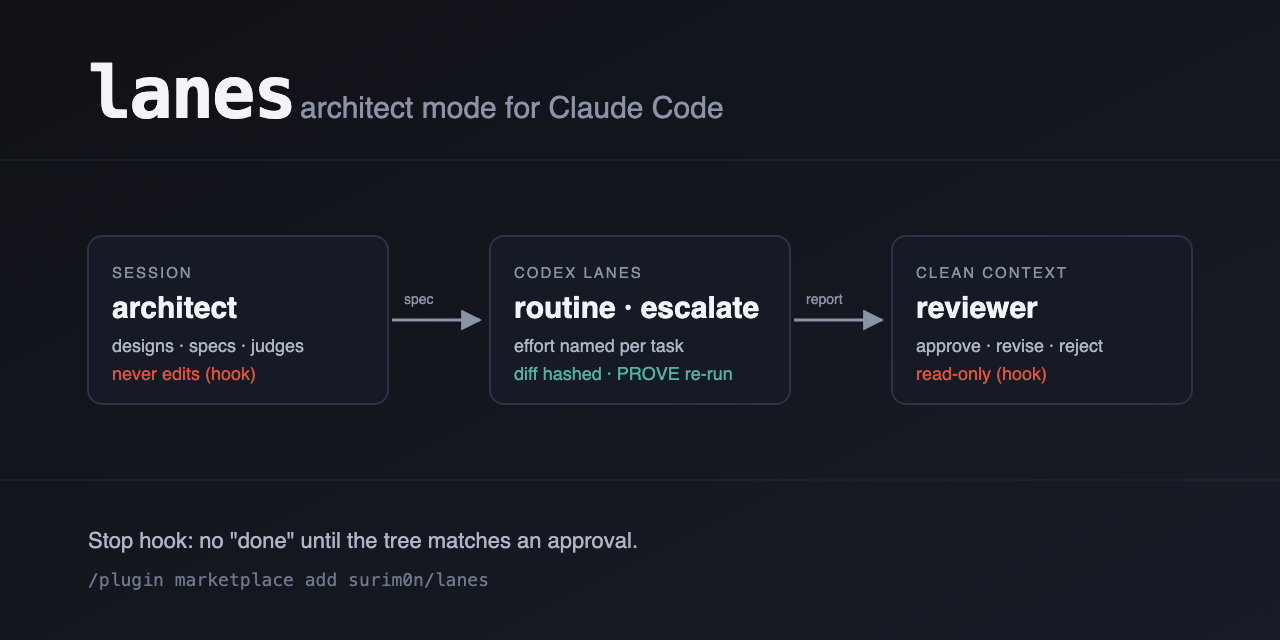
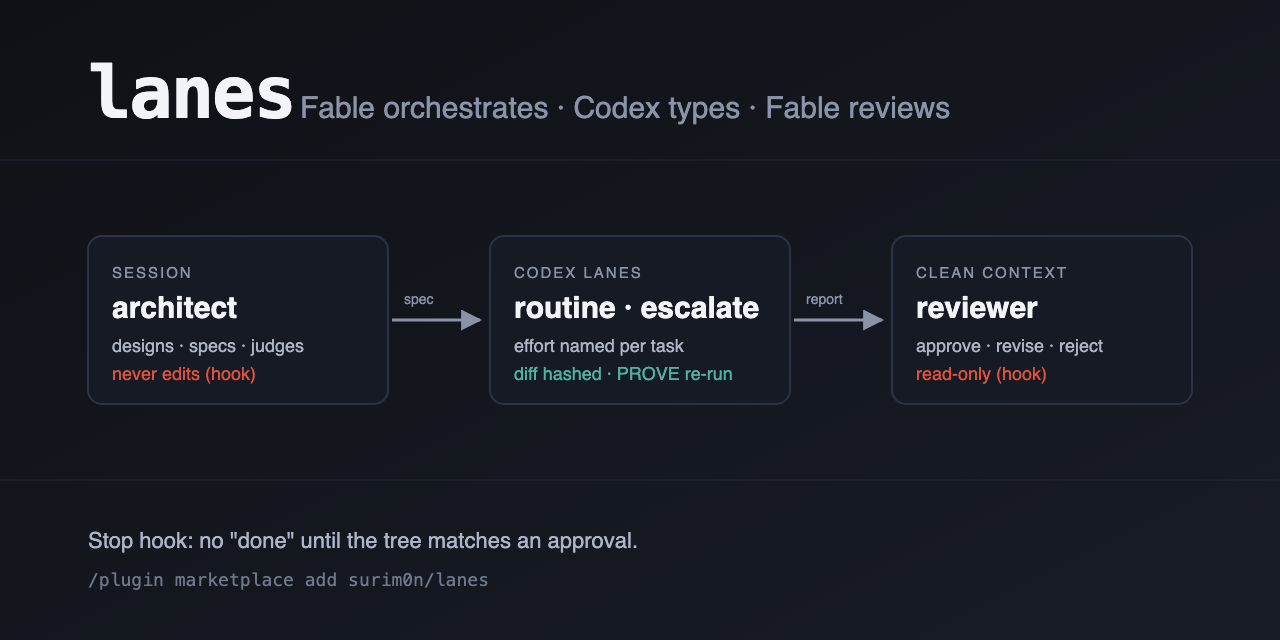
README: say it plainly. Fable thinks, Codex types, a second Fable checks.

Changed region(s): [[0.2188, 0.125, 0.75, 0.1875]]

diff --git a/README.md b/README.md
@@ -1,16 +1,22 @@
 # lanes
 
-![lanes: Claude writes the spec, Codex implements it, a fresh reviewer must approve](assets/banner.svg)
+![lanes: Fable orchestrates, Codex types, a fresh Fable reviews](assets/banner.svg)
 
-**Architect mode for Claude Code.** Claude turns your request into a concrete specification, Codex implements it at the reasoning level you name, the specified proof command is re-run independently, and a fresh read-only reviewer must approve the result before Claude can call the task done.
+**Fable thinks. Codex types. A second Fable checks. Claude Code makes sure it stays that way.**
+
+Run your Claude Code session on Fable. Fable never writes code. It writes a short spec and hands it to Codex (GPT-5.6 Luna), which does the implementation. When Codex is done, the proof command from the spec is re-run for real. Then a fresh Fable reviewer, with no memory of the conversation, reads the diff and says approve, revise or reject. Until it says approve, the session can't call the job done.
+
+That's the whole idea. Hooks and one script make it hold; the prompts just explain it.
+
+Why split it this way: Fable's tokens go to thinking instead of typing, Codex is cheaper and from a different vendor, and the review comes from a context that didn't write the spec.
 
 ```
-you ──► Claude (architect) ──► lanes run ──► Codex writes the code
-              │                                   │
-              │                    report: diff · PROVE re-run · exit code
-              ▼
-        lanes:reviewer (fresh context, read-only) ──► VERDICT: approve | revise | reject
-              │
+you ──► Fable (orchestrates) ──► lanes run ──► Codex (implements)
+               │                                    │
+               │                     report: diff · proof re-run · exit code
+               ▼
+        Fable reviewer (fresh context, read-only) ──► approve | revise | reject
+               │
         Stop hook: no "done" until the tree matches an approval
 ```
 
@@ -25,21 +31,19 @@ Needs `git` and the [Codex CLI](https://github.com/openai/codex) logged in (`npm
 
 ## Use
 
-1. Put the session on the model you want as architect: `/model fable` or `/model opus`.
-2. `/lanes:architect on`. Edit and Write are now blocked and the review gate is armed.
-3. Ask for work:
-
 ```
+/model fable
+/lanes:architect on
 Add rate limiting to the public API.
 ```
 
-Claude writes a spec, runs a lane, reads the report, and calls the reviewer before it can report done. `/lanes:status` shows mode, gate and models. `/lanes:architect off` when you want to edit by hand again.
+Fable writes the spec, runs a lane, reads the report, and calls the reviewer before it can report done. `/lanes:status` shows mode, gate and models. `/lanes:architect off` when you want to edit by hand again.
 
 ## What is enforced, what has a known hole, what is only asked
 
 | Rule | How |
 |---|---|
-| Claude never edits files | PreToolUse hook denies Edit, Write, MultiEdit, NotebookEdit |
+| Fable never edits files | PreToolUse hook denies Edit, Write, MultiEdit, NotebookEdit |
 | Every spec has a task, files and a proof command | `lanes run` refuses it otherwise (exit 5) |
 | An effort is named per task and never rounded | `--effort` is required; a rung the model lacks is refused |
 | "It worked" is not evidence | `lanes run` re-runs PROVE itself and shows the output (exit 1 on failure) |
@@ -53,10 +57,10 @@ Claude writes a spec, runs a lane, reads the report, and calls the reviewer befo
 Known holes, stated plainly:
 
 - The Stop gate yields on the immediate retry, so a session that needs to ask you something can. It fires again next turn.
-- Claude could prompt its own reviewer to rubber-stamp. The reviewer is told not to; that is a prompt, not a mechanism.
+- Fable could prompt its own reviewer to rubber-stamp. The reviewer is told not to; that is a prompt, not a mechanism.
 - Hooks don't police shell redirects. `cat > file` in Bash is only forbidden by the skill.
 
-Everything above is a workflow guardrail against a lazy or hurried session, not a security boundary against an adversarial one.
+This is a guardrail against a lazy or hurried session, not a security boundary against an adversarial one.
 
 ## The lanes
 
@@ -105,23 +109,16 @@ Exit codes for `run`: 0 done, 1 PROVE failed, 2 nothing changed, 3 timeout, 4 co
 
 The plugin's `bin/` is on the session's PATH. State lives in `.git/lanes/` of the checkout: nothing to commit, nothing to gitignore.
 
-## Degraded setups
+## If something is missing
 
-- No Fable on the account: change `model: fable` to `opus` in `agents/reviewer.md`.
+- No Fable on the account: change `model: fable` to `opus` in `agents/reviewer.md` and run the session on Opus.
 - No Codex: lanes exit 4. Turn architect mode off and keep the reviewer.
 - No `timeout` binary: `lanes` falls back to `gtimeout`, then `perl`, then warns and runs uncapped.
 - No `jq`: hooks parse with `sed`; `lanes doctor` skips the model cross-check.
 
 ## Development
 
-```
-tests/run.sh               tests against a fake codex; runs on bash 3.2 (macOS default) and 5
-tests/lint-frontmatter.sh  agents, commands and skill have frontmatter with a short description
-claude plugin validate .
-assets/render.sh           re-render assets/banner.png from banner.svg (headless Chrome)
-```
-
-CI runs all of it on macOS and Linux, plus shellcheck and a link check.
+`tests/run.sh` (fake Codex, bash 3.2 and 5), `tests/lint-frontmatter.sh`, `claude plugin validate .`, `assets/render.sh` for the banner. CI runs all of it on macOS and Linux with shellcheck and a link check.
 
 ## License
 
